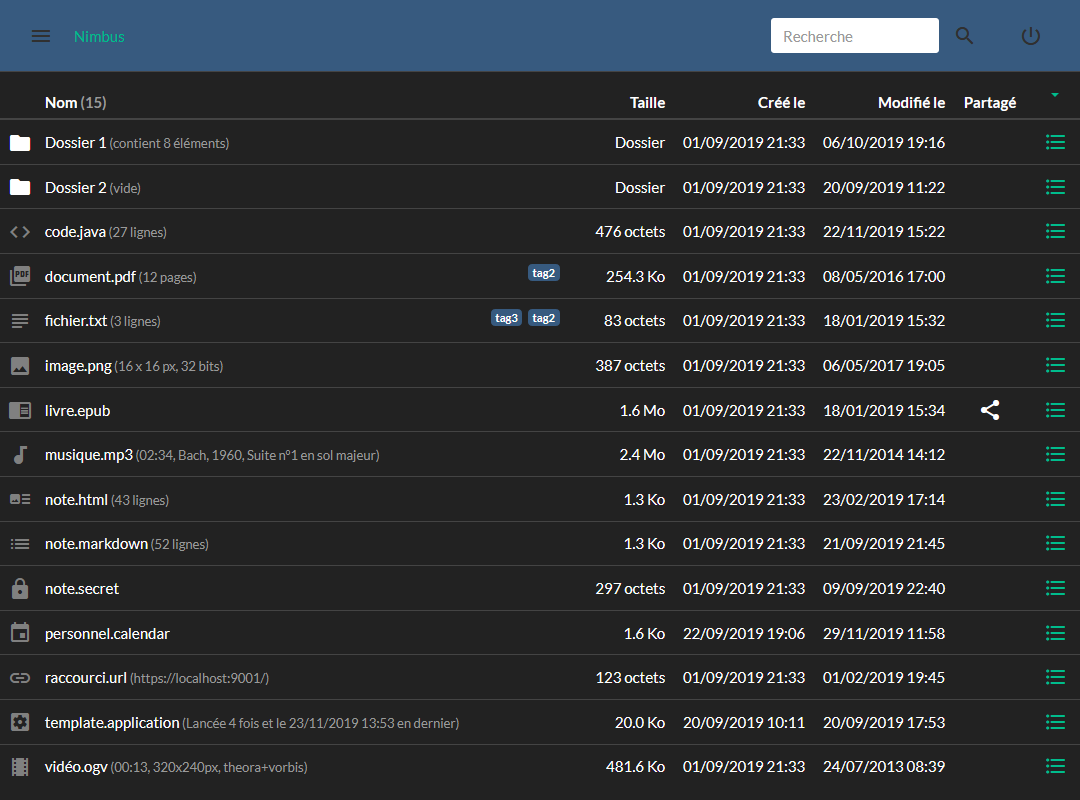
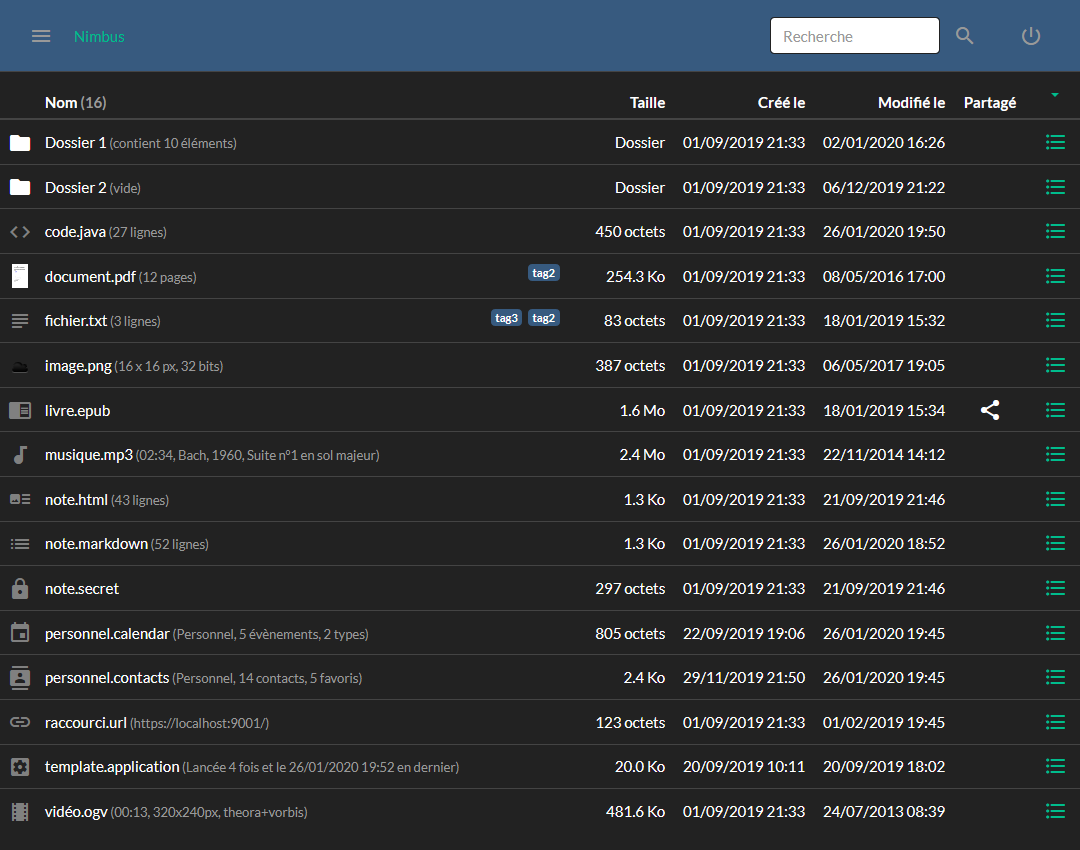
Préparation pour version 1.5 (mise à jour des fichiers de projet et des captures d'écran)

diff --git a/public/plugins/contacts.js b/public/plugins/contacts.js
@@ -343,7 +343,7 @@
 		}],
 		langs: {
 			fr: {
-				ContactsOpen: "Ouvrir le carnet d'adresse",
+				ContactsOpen: "Ouvrir dans le carnet d'adresse",
 				ContactsDescription0Contact: "aucun contact",
 				ContactsDescription1Contact: "1 contact",
 				ContactsDescriptionNContacts: "{0} contacts",
@@ -498,7 +498,7 @@
 				ContactListRemove: "Supprimer",
 			},
 			en: {
-				ContactsOpen: "Open address book",
+				ContactsOpen: "Open in address book",
 				ContactsDescription0Contact: "no contact",
 				ContactsDescription1Contact: "1 contact",
 				ContactsDescriptionNContacts: "{0} contacts",

diff --git a/README.md b/README.md
@@ -79,15 +79,15 @@ Fait | Import, export et téléchargement simplifié des fichiers/dossiers
 Fait | Tests automatisés (mais à compléter au fur et à mesure)
 Fait | Installation simplifiée
 Fait | Documentation (présentation, technologies, installation, import, synchronisation)
-En cours | Documentation (types de fichier supportés, facets, plugins, applications) 
-Fait | Applications annexes (diaporama, lecteur audio/vidéo/ePub/PDF, éditeur de code/texte/Markdown/note)
-A faire | Applications annexes (contacts, calendrier, messagerie, ... il y a tellement de possibilités !)
+À continuer | Documentation (types de fichier supportés, facets, plugins, applications) 
+Fait | Applications annexes (image, audio, video, epub, pdf, url, texte, markdown, code, calendrier, contact)
+À étudier | Applications annexes (checksums, bookmark, wiki, RSS, messagerie... il y a tellement de possibilités !)
 Fait | Synchronisation (dossier local vers serveur et serveur vers dossier local)
-A faire | Synchronisation (bi-directionnelle et/ou temps réel)
+À étudier | Synchronisation (bi-directionnelle et/ou temps réel)
 
 ## Fichiers supportés
 
-Tout type de fichier peut être stockés dans `Nimbus`. Toutefois, des fonctions supplémentaires sont disponibles pour certains d'entre eux.
+Il est possible de stocker tout type de fichier dans `Nimbus` et, quand le format du fichier est reconnu, des fonctions supplémentaires sont disponibles :
 
 - Documents ePUB :
     - les documents `.epub` peuvent être consultés dans Nimbus, grâce à [EPUB.js](https://github.com/futurepress/epub.js), en utilisant l'action *Lire*
@@ -108,25 +108,30 @@ Tout type de fichier peut être stockés dans `Nimbus`. Toutefois, des fonctions
 - Images :
     - les images (`.jpeg`, `.png`, ...) [supportées par le navigateur](https://developer.mozilla.org/en-US/docs/Web/HTML/Element/Img) peuvent être visualisées dans le `Diaporama` de Nimbus
     - plusieurs propriétés (dimensions, coordonnées GPS, ...) peuvent être extraites de différents formats afin d'être disponibles lors de la navigation
+- Markdown :
+    - les notes au format Markdown (`.markdown` ou `.md`) peuvent être saisies et prévisualisées dans Nimbus, grâce à [Marked.js](https://github.com/markedjs/marked), en utilisant l'action `Ouvrir dans l'éditeur Markdown`
+	- la coloration syntaxique des blocs de code est faite grâce à [Prism.js](https://github.com/PrismJS/prism) ou [CodeMirror](https://codemirror.net/) (cf *client.code.highlighter* dans *nimbus.conf*)
 - Fichiers texte :
     - les fichiers texte (cf *text.file.extensions* dans *nimbus.conf*) peuvent être édités dans Nimbus en utilisant l'action `Ouvrir dans l'éditeur de texte`
-    - les notes au format Markdown (`.markdown` ou `.md`) peuvent être saisies et prévisualisées en HTML, dans Nimbus, grâce à [Marked.js](https://github.com/markedjs/marked) et [Prism.js](https://github.com/PrismJS/prism)
     - les notes au format HTML (`.html` ou `.note`), peuvent être éditées dans Nimbus grâce à une application WYSIWYG dédiée
     - le `code source` peut être édité dans Nimbus grâce à [CodeMirror](https://codemirror.net/) en utilisant l'action `Ouvrir dans l'éditeur de code`
 
-De plus, certaines extensions sont interprétées comme fichiers contenant les données d'applications intégrées à Nimbus 
+De plus, une action générale `Ouvrir` permet d'ouvrir le fichier dans le navigateur, quand ce dernier supporte ce format de fichier.
+
+Enfin, certaines extensions sont interprétées comme fichiers contenant les données d'applications intégrées à Nimbus 
 
 - Notes chiffrées
     - l'extension `.secret` est utilisée par l'application de prise de notes chiffrées accessible en utilisant l'action `Afficher ou modifier le contenu`
 	- le chiffrement se fait côté client en *AES 256 bits GCM* grâce à [Web Crypto API](https://developer.mozilla.org/en-US/docs/Web/API/Crypto), intégrée aux navigateurs
 - Agenda
-    - l'extension `.calendar` est utilisée par l'agenda accessible en utilisant l'action `Ouvrir dans l'agenda`
-	- l'agenda permet de combiner plusieurs fichiers `.calendar`, par exemple *personnel.calendar*, *professionnel.calendar* et *anniversaires.calendar*
+	- l'agenda permet de combiner un ou plusieurs fichiers `.calendar`, par exemple *personnel.calendar* et *professionnel.calendar*
+    - l'application est accessible via le menu général `Ouvrir l'agenda` ou l'action `Ouvrir dans l'agenda` de ces fichiers
+- Contact
+	- le carnet d'adresse est constitué de un ou plusieurs fichiers `.contacts`, par exemple *personnel.contacts* et *professionnel.contacts*
+	- l'application est accessible via le menu général `Ouvrir le carnet d'adresse` ou l'action `Ouvrir dans le carnet d'adresse` de ces fichiers
 - Applications
-	- l'extension `.application` est utilisée comme indicateurs pour des applications HTML/CSS/JS que l'on peut lancer en utilisant l'action `Lancer cette application`
+	- l'extension `.application` est utilisée comme marqueur pour des applications HTML/CSS/JS que l'on peut lancer en utilisant l'action `Lancer cette application`
 	- [une application fonctionnelle](./doc/template.application.png) est disponible dans `doc/template.application`. Elle permet de générer des squelettes d'application personnalisables
-
-Enfin, une action générale `Ouvrir` permet d'ouvrir le fichier dans le navigateur, quand ce dernier supporte ce format de fichier.
 
 ## Installation
 
